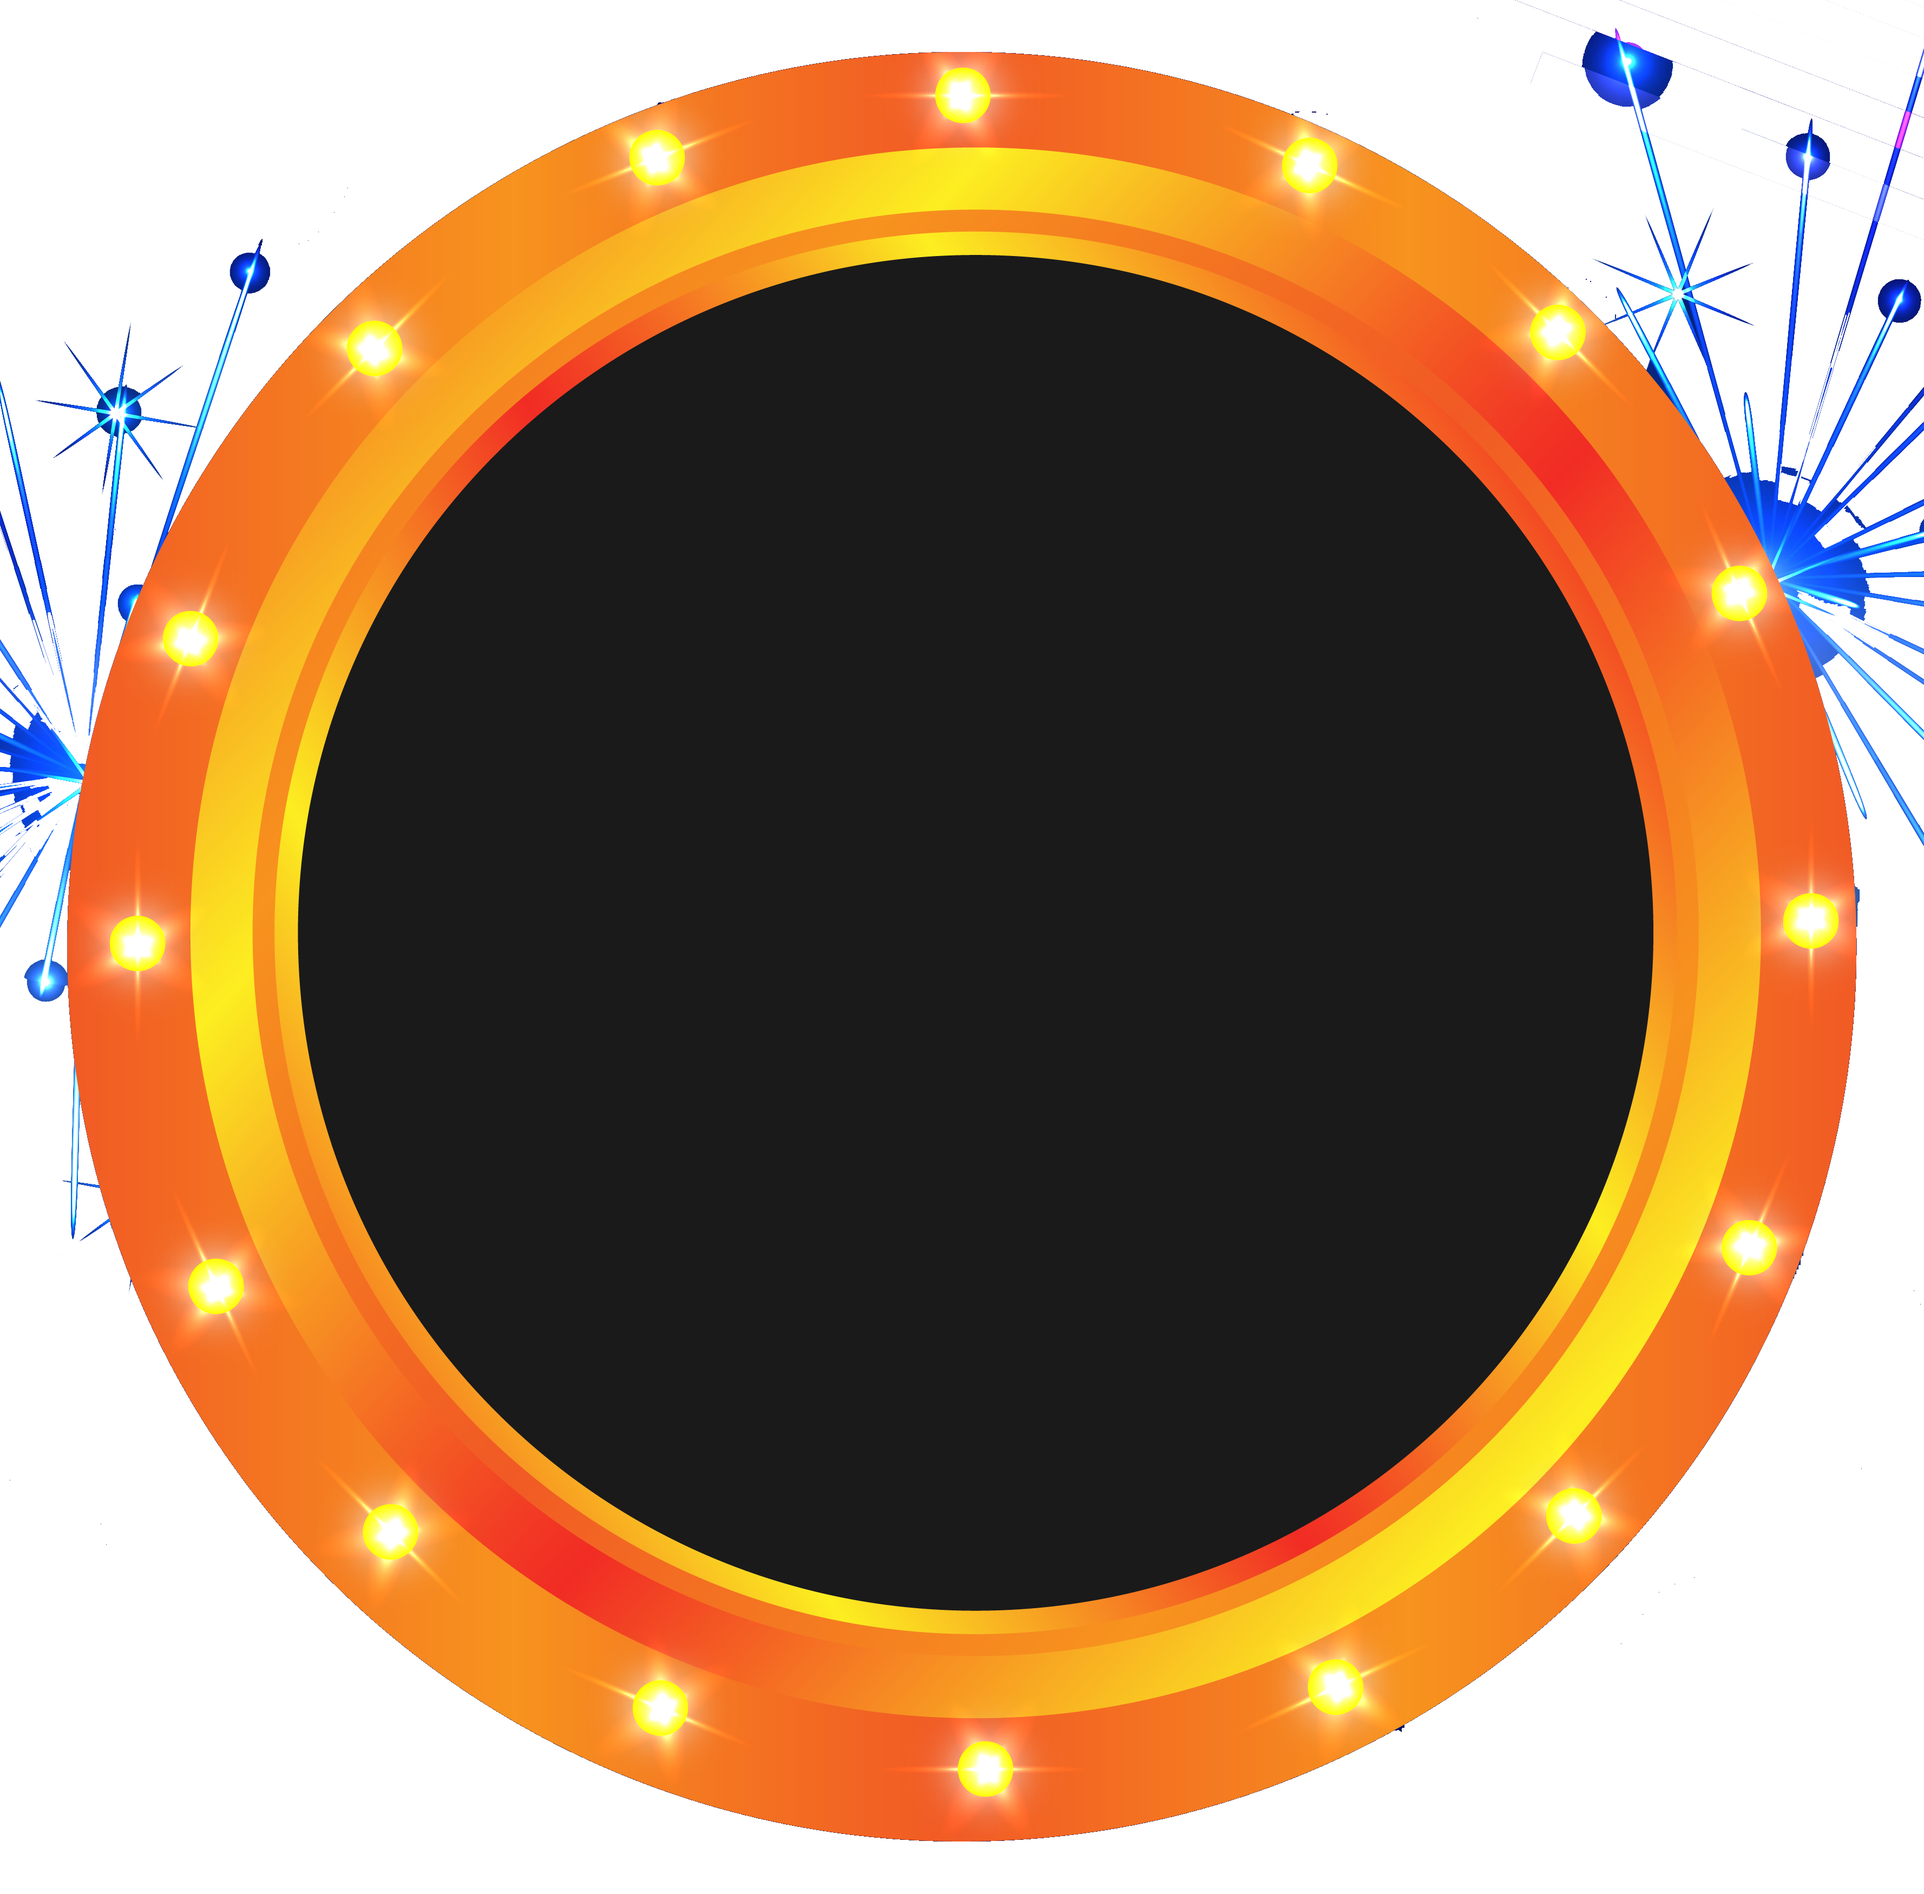
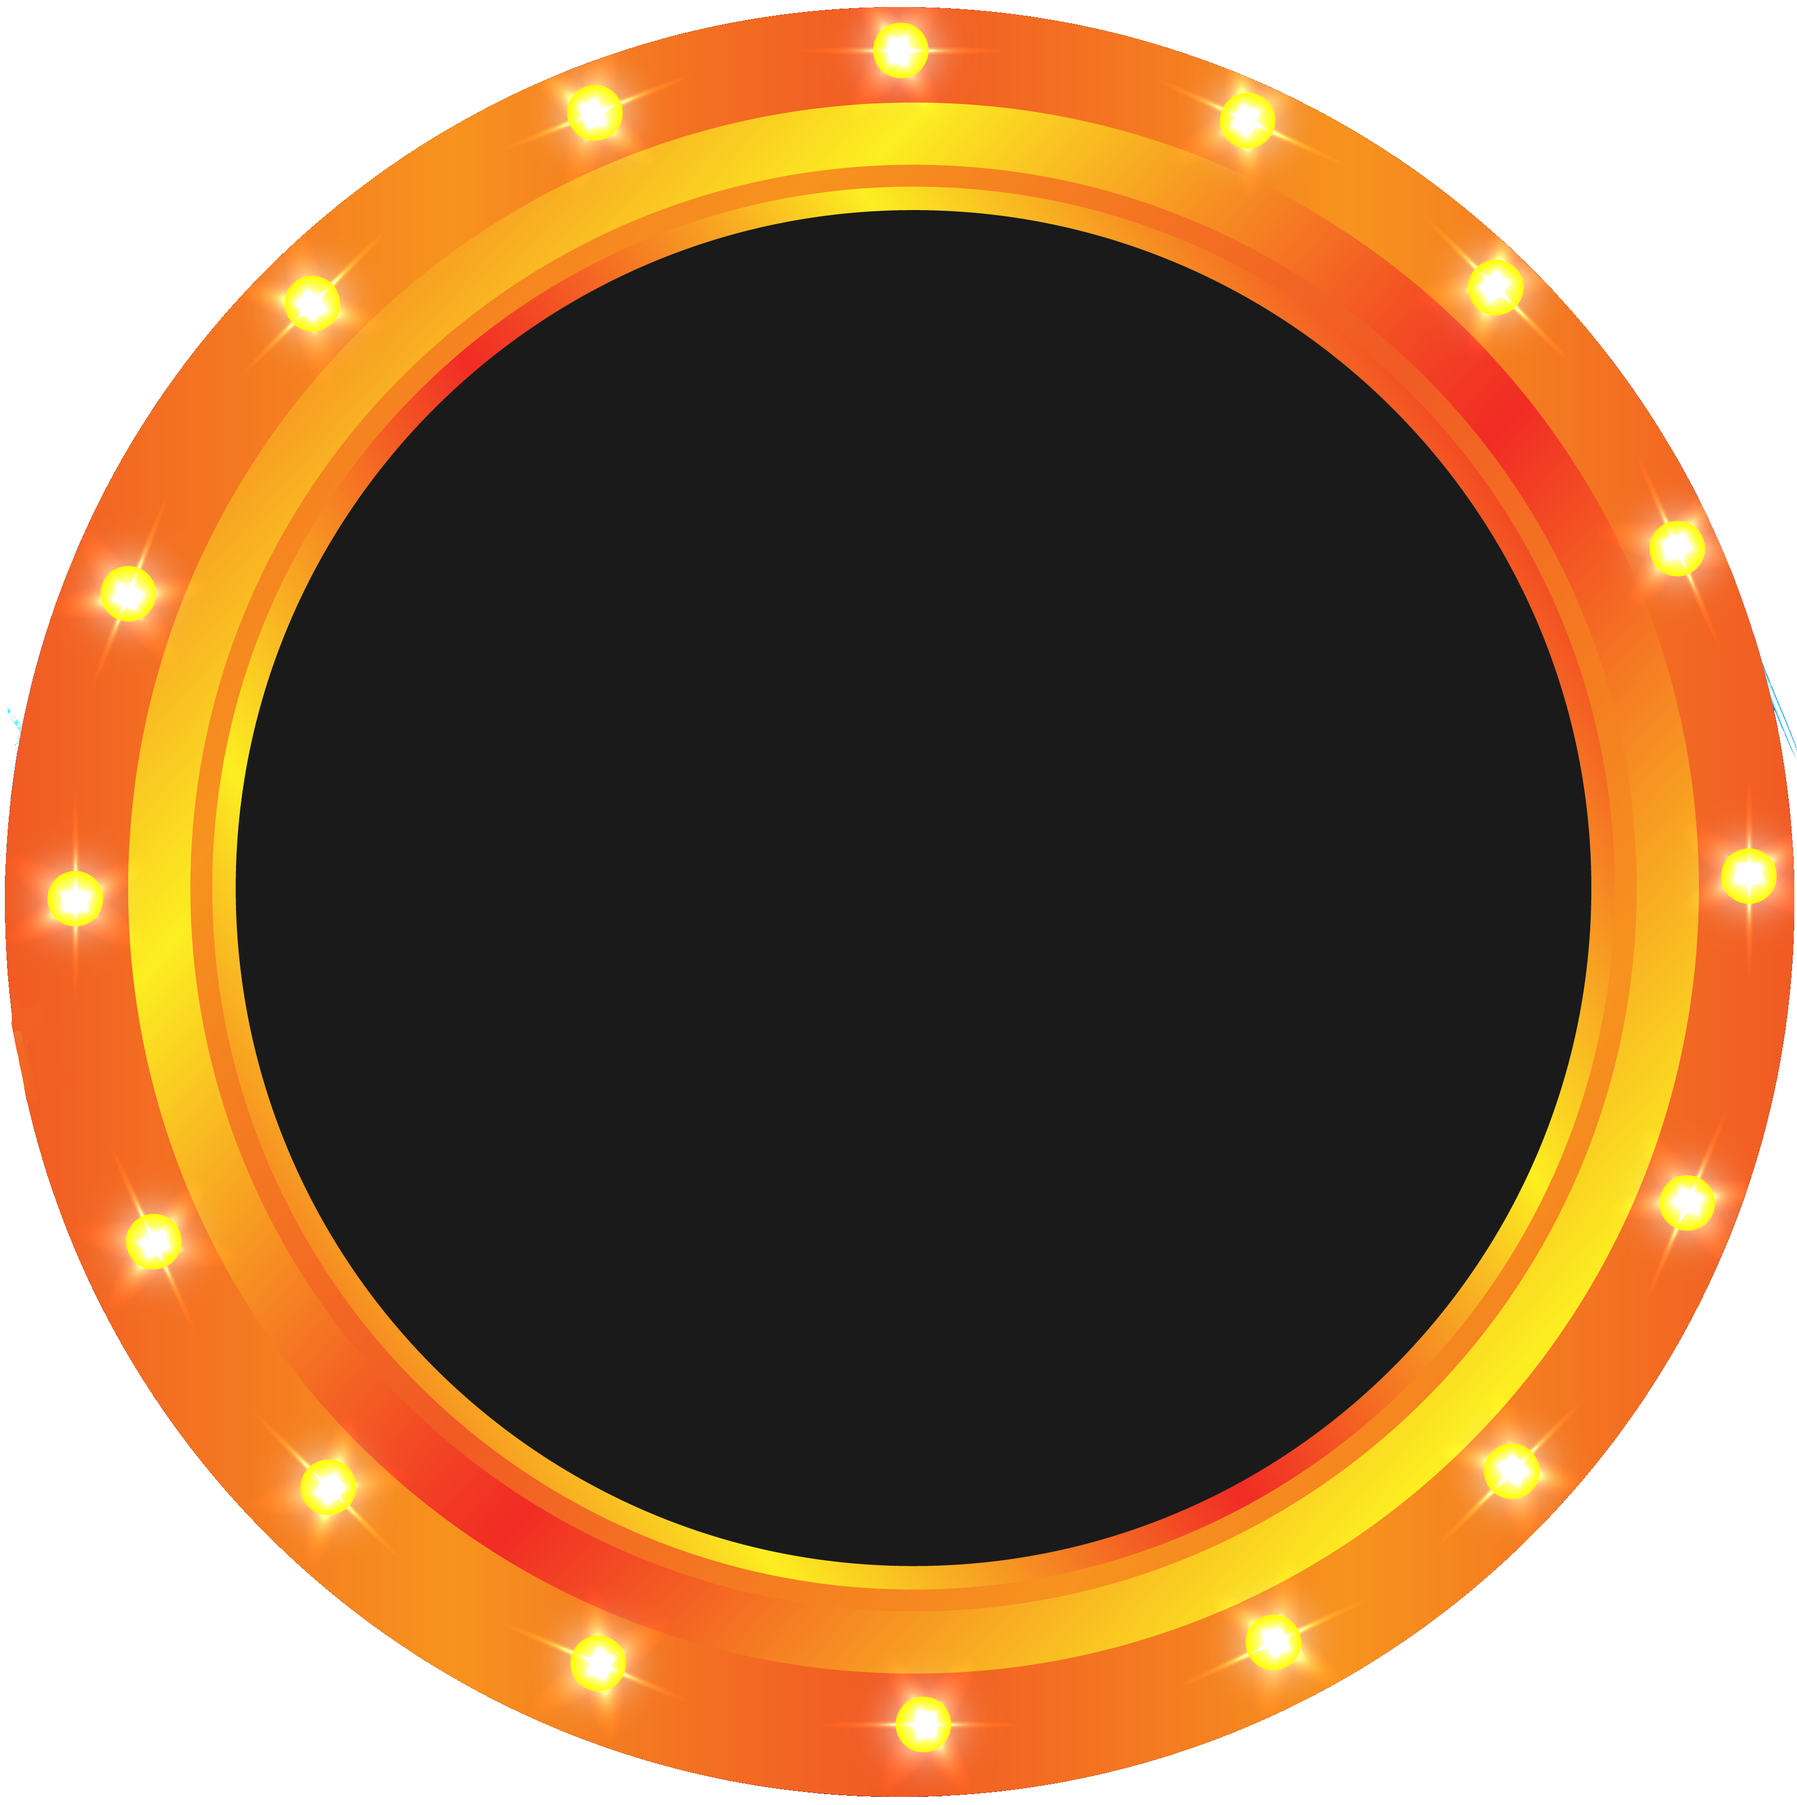
updated wheel ui

Changed region(s): [[0.0, 0.0, 1.0, 0.9982], [0.9928, 0.0312, 1.0, 0.0624]]

diff --git a/app/javascript/components/WheelComponent.js b/app/javascript/components/WheelComponent.js
@@ -139,6 +139,7 @@ const WheelComponent = ({
     ctx.lineTo(centerX, centerY)
     ctx.closePath()
     ctx.fillStyle = segColors[key]
+    
 
 
 
@@ -173,7 +174,7 @@ const WheelComponent = ({
     ctx.beginPath()
     ctx.arc(centerX, centerY, 20, 0, PI2, false)
     ctx.closePath()
-    ctx.fillStyle = '#EF6537' || 'black'
+    ctx.fillStyle = '#F7B944' || 'black'
     ctx.lineWidth = 0
     ctx.fill()
     ctx.textAlign = 'center'
@@ -220,17 +221,20 @@ const WheelComponent = ({
   }
   return (
     <div id='wheel'>
-      <canvas
-        id='canvas'
-        width='600'
-        height='600'
-        style={{
-          pointerEvents: isFinished && isOnlyOnce ? 'none' : 'auto',
-          //backgroundImage: `url(${OuterWheel})`
-        }}
-      />
+      <div className="canvas-wrapper">
+        <canvas
+          id='canvas'
+          width='600'
+          height='600'
+          style={{
+            pointerEvents: isFinished && isOnlyOnce ? 'none' : 'auto',
+            //backgroundImage: `url(${OuterWheel})`
+          }}
+        />
+      </div>
       <div className="btn-actions">
         <button id="spinWheel" className="RandomPicker__button mb-2">{buttonText}</button>
+        {/* apply dynamic color for button */}
       </div>
     </div>
   )

diff --git a/app/assets/stylesheets/application.css b/app/assets/stylesheets/application.css
@@ -1764,11 +1764,22 @@ h2#swal2-title {
 
 
 #wheel canvas{
-	width: calc(70% - 20px);
+	width: calc(75% - 20px);
+	position: relative;
+    top: 75px;
+    left: 5px;
+}
+
+.canvas-wrapper{
+	background-image: url(spin.png);
+    background-size: 90%;
+    background-repeat: no-repeat;
+    background-position: center;
+    height: 550px;
+    width: 550px;
 }
 
 .wheel-wrapper{
-	
     color: #fff;
     position: relative;
     height: 100vh;
@@ -2033,9 +2044,6 @@ footer h6 {
 		position: absolute;
 		bottom: 30%;
 	} */
-	#wheel canvas{
-		width: calc(100% - 20px);
-	}
 	table.dataTable td.actions .btn {
 		width: 100%;
 		margin-bottom: 10px;
@@ -2241,9 +2249,17 @@ footer h6 {
 		left: 17px;
 		width: 100%;
 	}
-
 	.register-wrapper .registration-wrapper{
 		height: 300px;
+	}
+	#wheel canvas{
+		width: calc(80% - 20px);
+		top: 40px;
+    	left: 0;
+	}
+	.canvas-wrapper{
+		width: 310px;
+		height: 310px;
 	}
 }
 

diff --git a/app/javascript/components/Wheel.js b/app/javascript/components/Wheel.js
@@ -6,10 +6,12 @@ import 'react-wheel-of-prizes/dist/index.css';
 
 const Wheel = () => {
   const segments =
-  ['better luck next time1', 'won 70', 'won 10','better luck next time2', 'won 2', 'won uber pass', 'better luck next time3', 'won a voucher3'];
+  ['better luck next time1', 'won 70', 'won 10','better luck next time2', 'won 2', 
+  'won uber pass', 'better luck next time3', 'won a voucher3',
+  ];
   const choice = segments[Math.floor(Math.random() * segments.length)];
   const segColors = [
-    "#C82E29"
+    "#EE5C36"
   ];
 
   const setChoices = [];

diff --git a/app/javascript/packs/application.js b/app/javascript/packs/application.js
@@ -442,12 +442,8 @@ $(document).ready(function () {
         }
     }
 
-    var wheel = $('#wheel canvas');
-    if(wheel.length > 0){
-      var ctx = wheel[0].getContext('2d');
-        // ctx.canvas.height = 600;
-        // ctx.canvas.width = 600;
-    }
+
+
 });
 
 window.streamValueTypeChange = function(id) {
